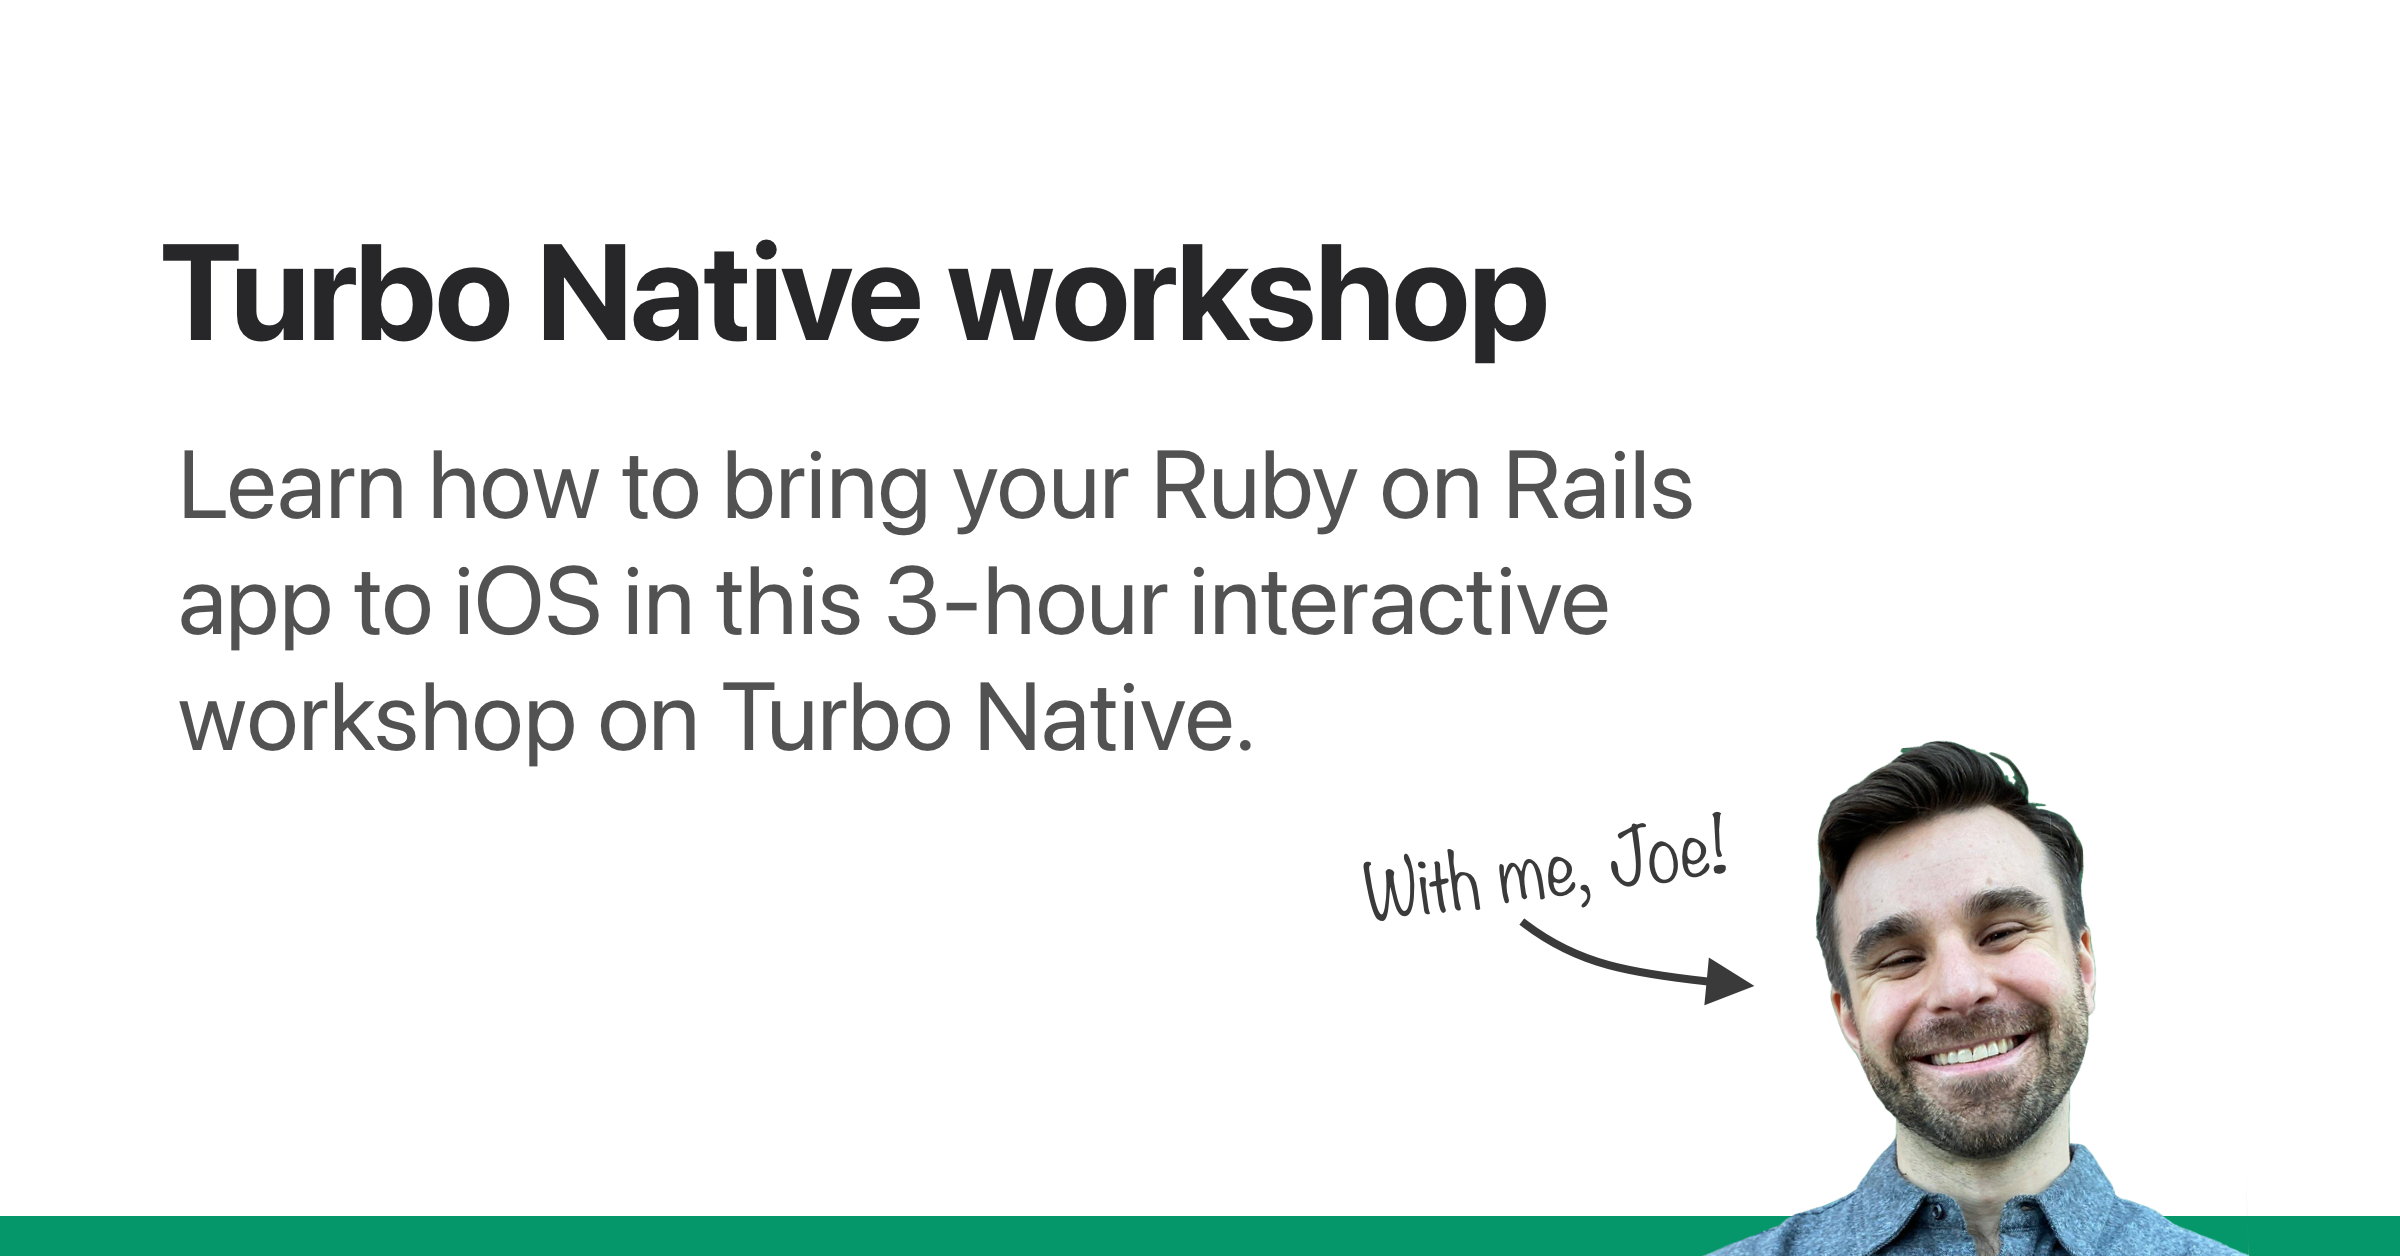
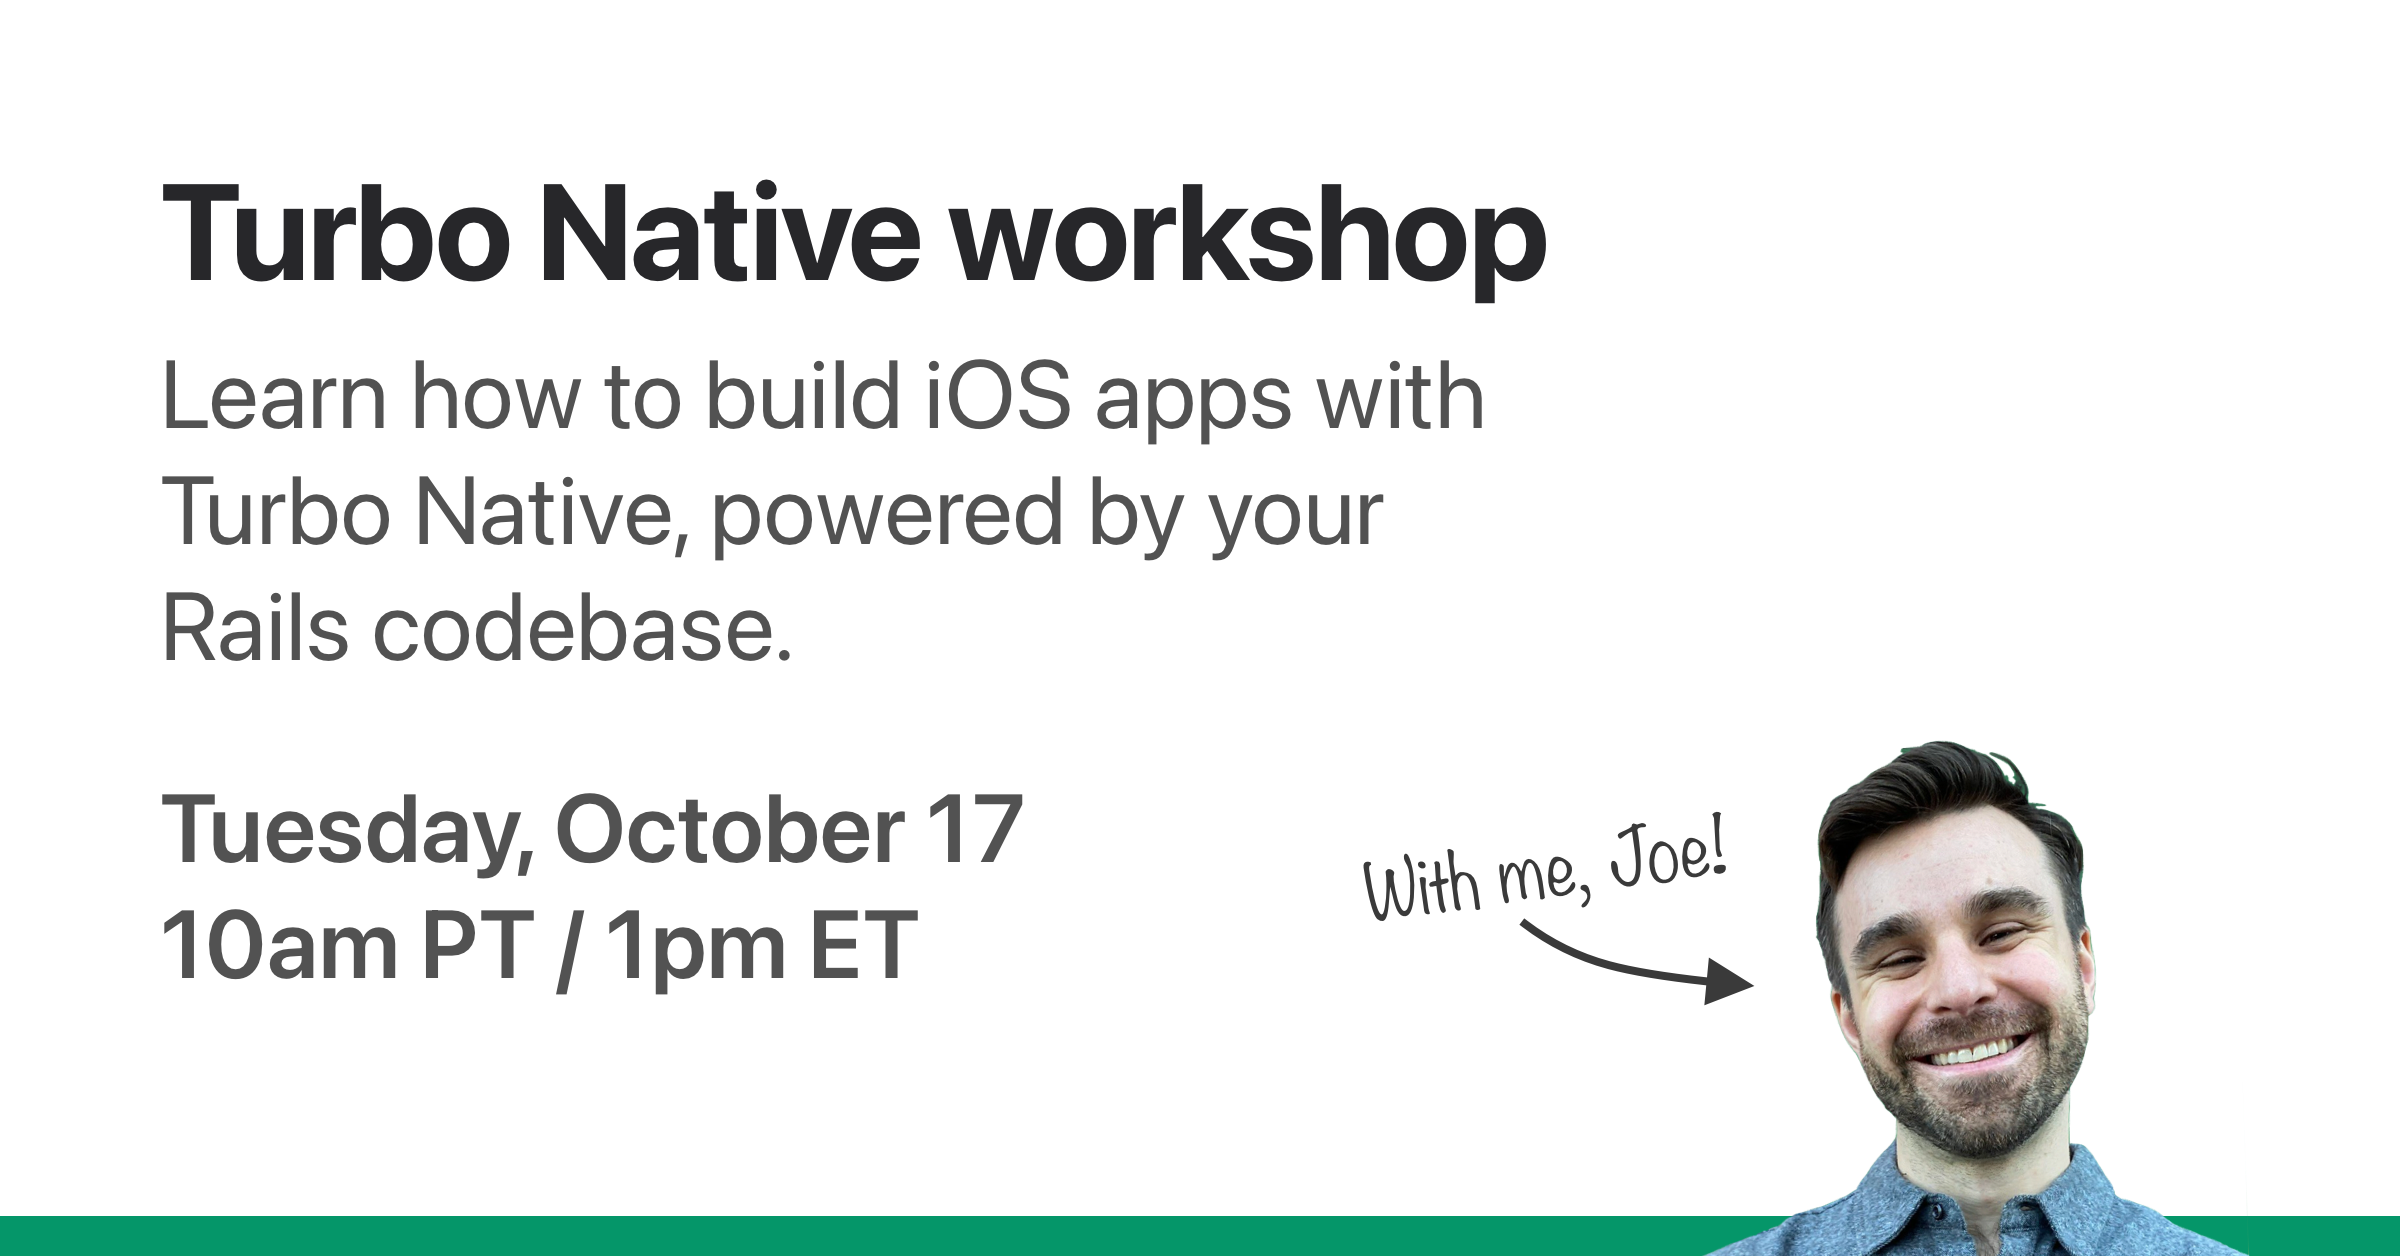
Launch new workshop

Changed region(s): [[0.0625, 0.1242, 0.7188, 0.8073]]

diff --git a/src/_components/workshop/cta.rb b/src/_components/workshop/cta.rb
@@ -2,8 +2,8 @@ module Workshop
   class CTA < SiteComponent
     attr_reader :newsletter
 
-    def initialize(newsletter:, event_id:)
-      @newsletter, @event_id = newsletter, event_id
+    def initialize(newsletter:, event_id:, hide_count: false)
+      @newsletter, @event_id, @hide_count = newsletter, event_id, hide_count
     end
 
     def event_id
@@ -20,7 +20,9 @@ module Workshop
     end
 
     def hero
-      "#{tickets} #{"ticket".pluralize(tickets)} remaining"
+      unless @hide_count
+        "#{tickets} #{"ticket".pluralize(tickets)} remaining"
+      end
     end
 
     private

diff --git a/src/_pages/turbo-native-workshop.md b/src/_pages/turbo-native-workshop.md
@@ -1,8 +1,8 @@
 ---
 title: Turbo Native workshop
 description: |
-  Learn how to use the native iOS Turbo wrapper to build high-fidelity hybrid
-  apps with native navigation in this 3-hour interactive workshop.
+  A 2-hour workshop on building iOS apps with Turbo Native, powered by your Rails
+  codebase.
 permalink: /turbo-native-workshop/
 
 layout: page
@@ -11,14 +11,11 @@ template_engine: erb
 
 ---
 
-<p class="lead">Learn how to bring your Ruby on Rails app to iOS in this 3-hour interactive workshop on Turbo Native.</p>
+<p class="lead">Learn how to build iOS apps with Turbo Native, powered by your Rails codebase.</p>
 
-The next workshop will take place in late 2023. Add your email to get first access when I open up registration.
+Tuesday, October 17 10am-12pm PT on Zoom. $99 per person.
 
-<div class="not-prose">
-  <%= render EmailCapture.new(site.data.newsletters.workshop) %>
-  <small class="block mt-4">By signing up you’ll also be subscribed to my <%= link_to "weekly newslettter", "_pages/newsletter.erb", class: "underline" %>.</small>
-</div>
+<%= render Workshop::CTA.new(newsletter: site.data.newsletters.workshop, event_id: site.config.fathom.events.workshop_ticket, hide_count: true) %>
 
 > "Just wrapped at Joe's first Turbo Native workshop. **Money well spent.** His workshop was huge in helping me wrap some concepts together." - [Mike Monroe](https://twitter.com/mikepmunroe/status/1603513381599715336)
 
@@ -28,40 +25,37 @@ The framework enables Rails developers like you and me to build high-fidelity hy
 
 Turbo Native unlocks native apps for Rails developers in a way that avoids a maintenance nightmare. Adding a new feature to your Rails app is automatically available to your native apps — no rebuilding or resubmitting needed. And since you’re building mobile web views there’s not another framework or library to learn once you have Turbo Native set up.
 
-The interactive workshop will be 3 hours long. You'll learn how to use the native iOS Turbo wrapper to build high-fidelity hybrid apps with native navigation.
+The interactive workshop will be 2 hours long. You'll learn how to use the [turbo-ios](https://github.com/hotwired/turbo-ios) adapter to build high-fidelity hybrid apps with native navigation.
 
 ## What you'll get out of this workshop
 
-**How to use Turbo Native** - Learn how to integrate the framework into a new Xcode project and how to handle common flows like clicking links and handling errors.
+**How to use Turbo Native** - The steps to integrate the framework into a new Xcode project.
 
-**How to think like an iOS developer** - Master code navigation in Xcode, where to go for documentation, and how to follow the Apple Human Interface Guidelines.
+**How to navigate** - Add Turbo Navigator to handle the most important navigation flows.
 
-**How to make your app feel more native** - Uncover hidden Rails helpers that abstract Turbo Native concepts and let us do what we do best, write Ruby code.
+**How to progressively enhance** - Uncover hidden Rails helpers to work with Turbo Native.
 
-**How to authenticate users** - Configure Devise to ensure users remain signed in to the iOS app and how to make authenticated, non-web HTTP requests.
+**How to authenticate users** - Ensure users remain signed in between launches.
 
-**How to build native screens with SwiftUI** - Progressively enhance screens by converting them to fully native SwiftUI views, powered JSON endpoints.
+**How to add native components** - Use Strada to build Swift components driven by HTML.
 
 > "Great pace and content, and opportunity to get clarification on some key concepts real time was priceless. **Highly recommended**!" 💯 - [Miles](https://twitter.com/tapster/status/1681582444707807234)
 
 ## Resources
 
-A good portion of the workshop is live coding – sometimes I'll be driving and other times you will be given prompts to complete with other attendees. The session will have two breaks and wrap up with Q&A.
+A good portion of the workshop is live coding – sometimes I'll be driving and other times you will be given prompts to complete with other attendees. The session will have one break and wrap up with Q&A.
 
-Attendees will also receive access to:
+Attendees will also receive:
 
-**iOS + Rails codebases** - Private GitHub repositories to work through during the workshop. Together, these build the groundwork for launching your own Turbo Native app.
+**iOS + Rails codebases** - Access to private GitHub repositories to work through during the workshop. Together, these build the groundwork for launching your own Turbo Native app.
 
-**Private community** - Discord server to discuss Turbo Native and the take home activities with other attendees and myself.
+**Turbo Native community** - A Discord server invitation to discuss Turbo Native and the take home activities with other attendees and myself.
 
 ## Register
 
-The next workshop will take place in late 2023. Add your email to get first access when I open up registration.
+Tuesday, October 17 10am-12pm PT on Zoom. $99 per person.
 
-<div class="not-prose">
-  <%= render EmailCapture.new(site.data.newsletters.workshop) %>
-  <small class="block mt-4">By signing up you’ll also be subscribed to my <%= link_to "weekly newslettter", "_pages/newsletter.erb", class: "underline" %>.</small>
-</div>
+<%= render Workshop::CTA.new(newsletter: site.data.newsletters.workshop, event_id: site.config.fathom.events.workshop_ticket, hide_count: true) %>
 
 > "What we learned in few hours **unlocks the possibilities for us to spin up a mobile app for our users quickly and reliably**." - Sweta Sanghavi
 
@@ -80,9 +74,3 @@ All attendees must be able to run a Ruby on Rails app and Xcode on their machine
 They must also have a basic understanding of Swift and iOS development. You should be comfortable working with optionals, protocols, delegates, extensions, and UIKit classes like `UIViewController` and `UINavigationController`.
 
 Read through <%= link_to "Swift for Ruby developers", "_posts/2023-04-25-swift-for-ruby-developers.md" %> to get up to speed.
-
-## Coupon code
-
-Subscribe to my newsletter below for a discount code for **$100 off**.
-
-> "I was always searching for that missing piece to complete my understanding of Turbo Native. I found it in Joe's workshop. It blew me away with new and innovative tricks. **If you're thinking of giving Turbo Native a try, Joe is the perfect guide.**" - Tony Messias
